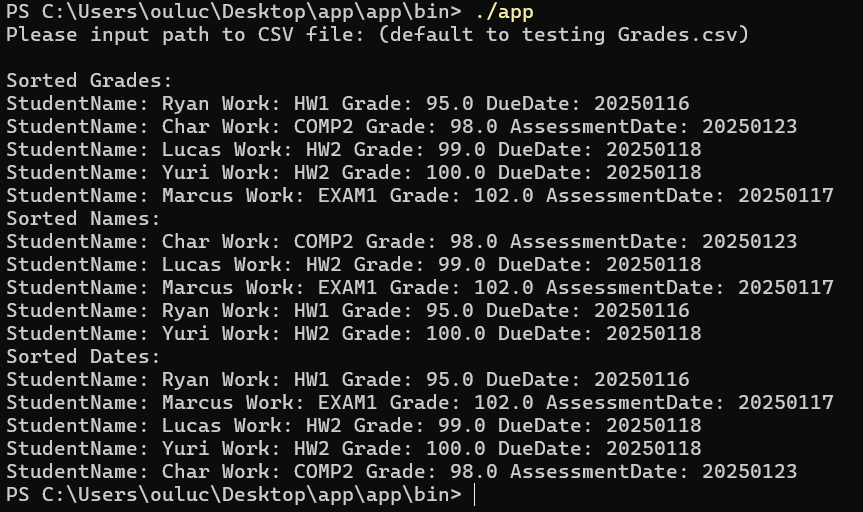
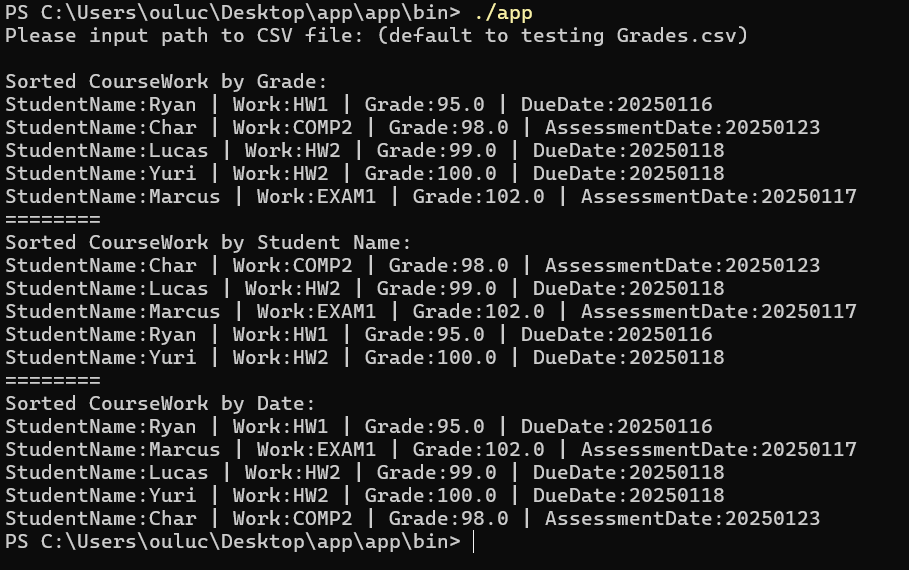
update README.md

Changed region(s): [[0.0, 0.125, 0.9641, 1.0], [0.0, 0.0, 0.8737, 0.0938]]

diff --git a/app/src/main/java/com/lucas/gradesys/App.java b/app/src/main/java/com/lucas/gradesys/App.java
@@ -35,13 +35,13 @@ public class App {
 
         try {
             course.loadCourseWorkFromCSV(inputFileStream);
-            System.out.println("Sorted Grades: ");
+            System.out.println("Sorted CourseWork by Grade: ");
             course.printIncreasingGrades();
             System.out.println("========");
-            System.out.println("Sorted Names: ");
+            System.out.println("Sorted CourseWork by Student Name: ");
             course.printIncreasingNames();
             System.out.println("========");
-            System.out.println("Sorted Dates: ");
+            System.out.println("Sorted CourseWork by Date: ");
             course.printIncreasingDate();
         } catch (IOException | CsvException e) {
             e.printStackTrace();

diff --git a/README.md b/README.md
@@ -1,6 +1,13 @@
 # GradeSystem
 GradeSystem is a Java application to help teachers to view and sort student coursework data efficiently. This project intends to demonstrate several skills needed for the College Board AP CS A exam as of 2025.
 
+## Features
+* Import student coursework data via a CSV file
+* View sorted coursework list by...
+    * Student Name Alphabetically
+    * Recieved Grade
+    * Assigned/Due Date
+
 ## Getting Started
 
 ### Cloning the repository
